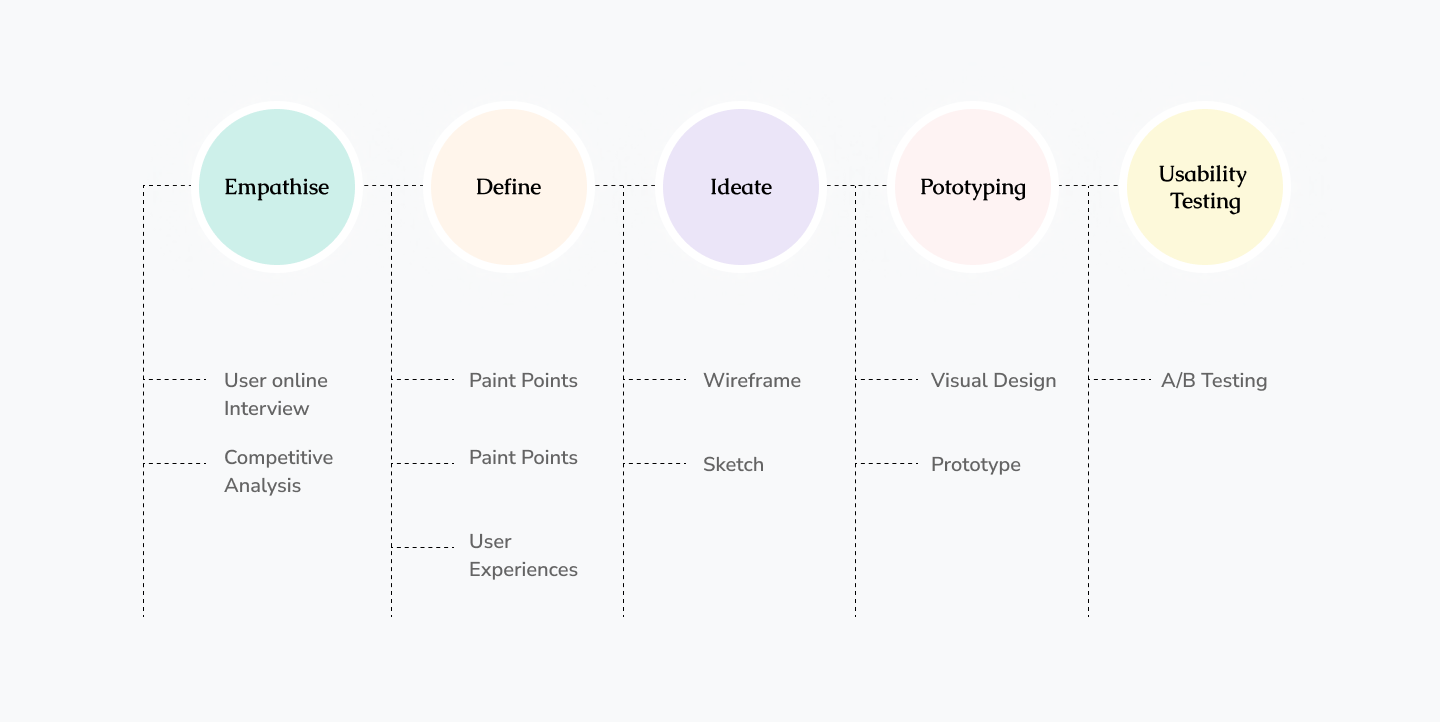
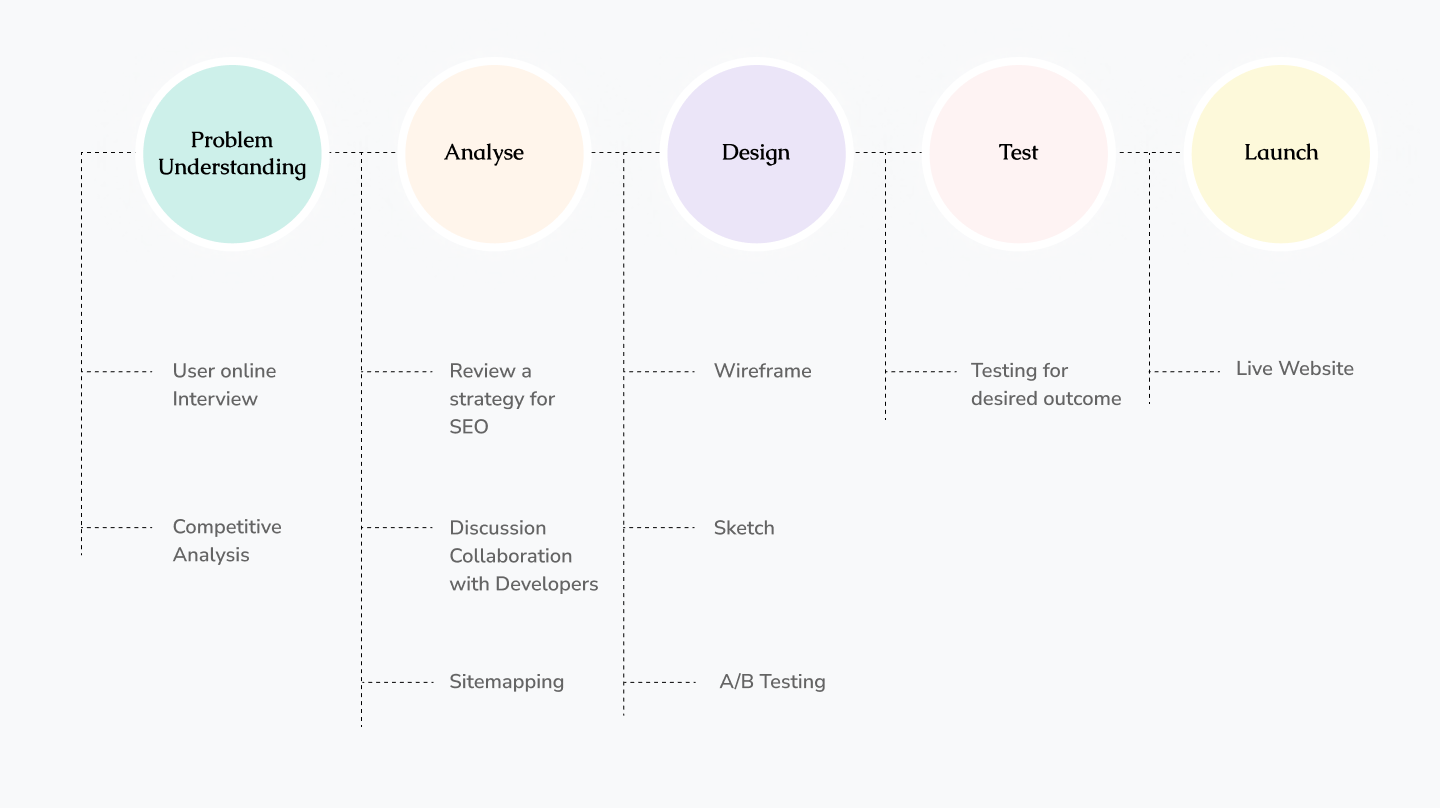
change

diff --git a/simplyev-project-casestudy.html b/simplyev-project-casestudy.html
@@ -55,7 +55,7 @@
     <div class="container">
       <a class="navbar-brand" href="index.html">
         <!-- <img src="assets/img/logo2.svg" alt="logo" class="logo"/> -->
-        <p class="logo-text">SoniaSeher</p>
+        <p class="logo-text">SoniaSeher.</p>
       </a>
       <a href="#" class="burger" data-bs-toggle="collapse" data-bs-target="#main-navbar">
         <span></span>
@@ -106,9 +106,22 @@
               <div class="col-lg-12">
                 <h3 class="h3">Design Process</h3> 
                 <img src="assets/img/Chart.png" alt="chart" class="img-fluid case-study-banner">
-                <h3 class="h3">Empathise</h3>
-            <p> 
-            </p>
+                <h3 class="h3"><span>1. </span> Problem Understanding / Empathise</h3>
+                <ul class="list-unstyled list-line mb-5">
+                  <li><strong>User Online Interview : </strong> <span>There was a video call with client about his business and goals explanation and pain points he was facing about site.</span></li>
+                  <li><strong>Competitive Analysis :</strong> <span>There was Competitive analysis conducted by Digital marketer to check similar websites with good experience of their web application and collected data to redesign SimplyEV.  </span></li>
+                </ul>
+                <h3 class="h3"><span>2. </span> Analyse</h3>
+                <p>SimplyEV is a Ecommerce site whose main goal to redesign site to accomplish seles in a simple way. for this analysis our seo and digital marketer team did sitemapping, seo testing and collaborate with the developer to confirm the possible solutions.
+               </p><br>
+               <h3 class="h3"><span>3. </span> Design Solution</h3>
+               <img src="assets/img/Home.png" alt="chart" class="img-fluid pt-4 ">
+               <img src="assets/img/Product.png" alt="chart" class="img-fluid py-4 ">
+               <h3 class="h3"><span>4. </span> Test</h3>
+               <p> After Crafting the design hand over the design file to the developer team and then testing part was held in a loop till the desigred outcome.
+              </p><br>
+              <h3 class="h3"><span>5. </span> Launch</h3>
+              <p class="text-left"><a href="https://simplyev.com/ " class="readmore" target="_blank">Live Site</a></p>
               </div>
             </div>
           </div>

diff --git a/about.html b/about.html
@@ -55,7 +55,7 @@
     <div class="container">
       <a class="navbar-brand" href="index.html">
         <!-- <img src="assets/img/logo2.svg" alt="logo" class="logo"/> -->
-        <p class="logo-text">SoniaSeher</p>
+        <p class="logo-text">SoniaSeher.</p>
       </a>
       <a href="#" class="burger" data-bs-toggle="collapse" data-bs-target="#main-navbar">
         <span></span>

diff --git a/index.html b/index.html
@@ -55,7 +55,7 @@
     <div class="container">
       <a class="navbar-brand" href="index.html">
         <!-- <img src="assets/img/logo2.svg" alt="logo" class="logo"/> -->
-        <p class="logo-text">SoniaSeher</p>
+        <p class="logo-text">SoniaSeher.</p>
       </a>
       <a href="#" class="burger" data-bs-toggle="collapse" data-bs-target="#main-navbar">
         <span></span>

diff --git a/works.html b/works.html
@@ -55,7 +55,7 @@
     <div class="container">
       <a class="navbar-brand" href="index.html">
         <!-- <img src="assets/img/logo2.svg" alt="logo" class="logo"/> -->
-        <p class="logo-text">SoniaSeher</p>
+        <p class="logo-text">SoniaSeher.</p>
       </a>
       <a href="#" class="burger" data-bs-toggle="collapse" data-bs-target="#main-navbar">
         <span></span>

diff --git a/assets/css/style.css b/assets/css/style.css
@@ -606,4 +606,7 @@ h6,
 .case-study-banner{
   margin: 30px 0px;
 }
+.section{
+  border-top: 1px solid;
+}
 /* custom css end */
